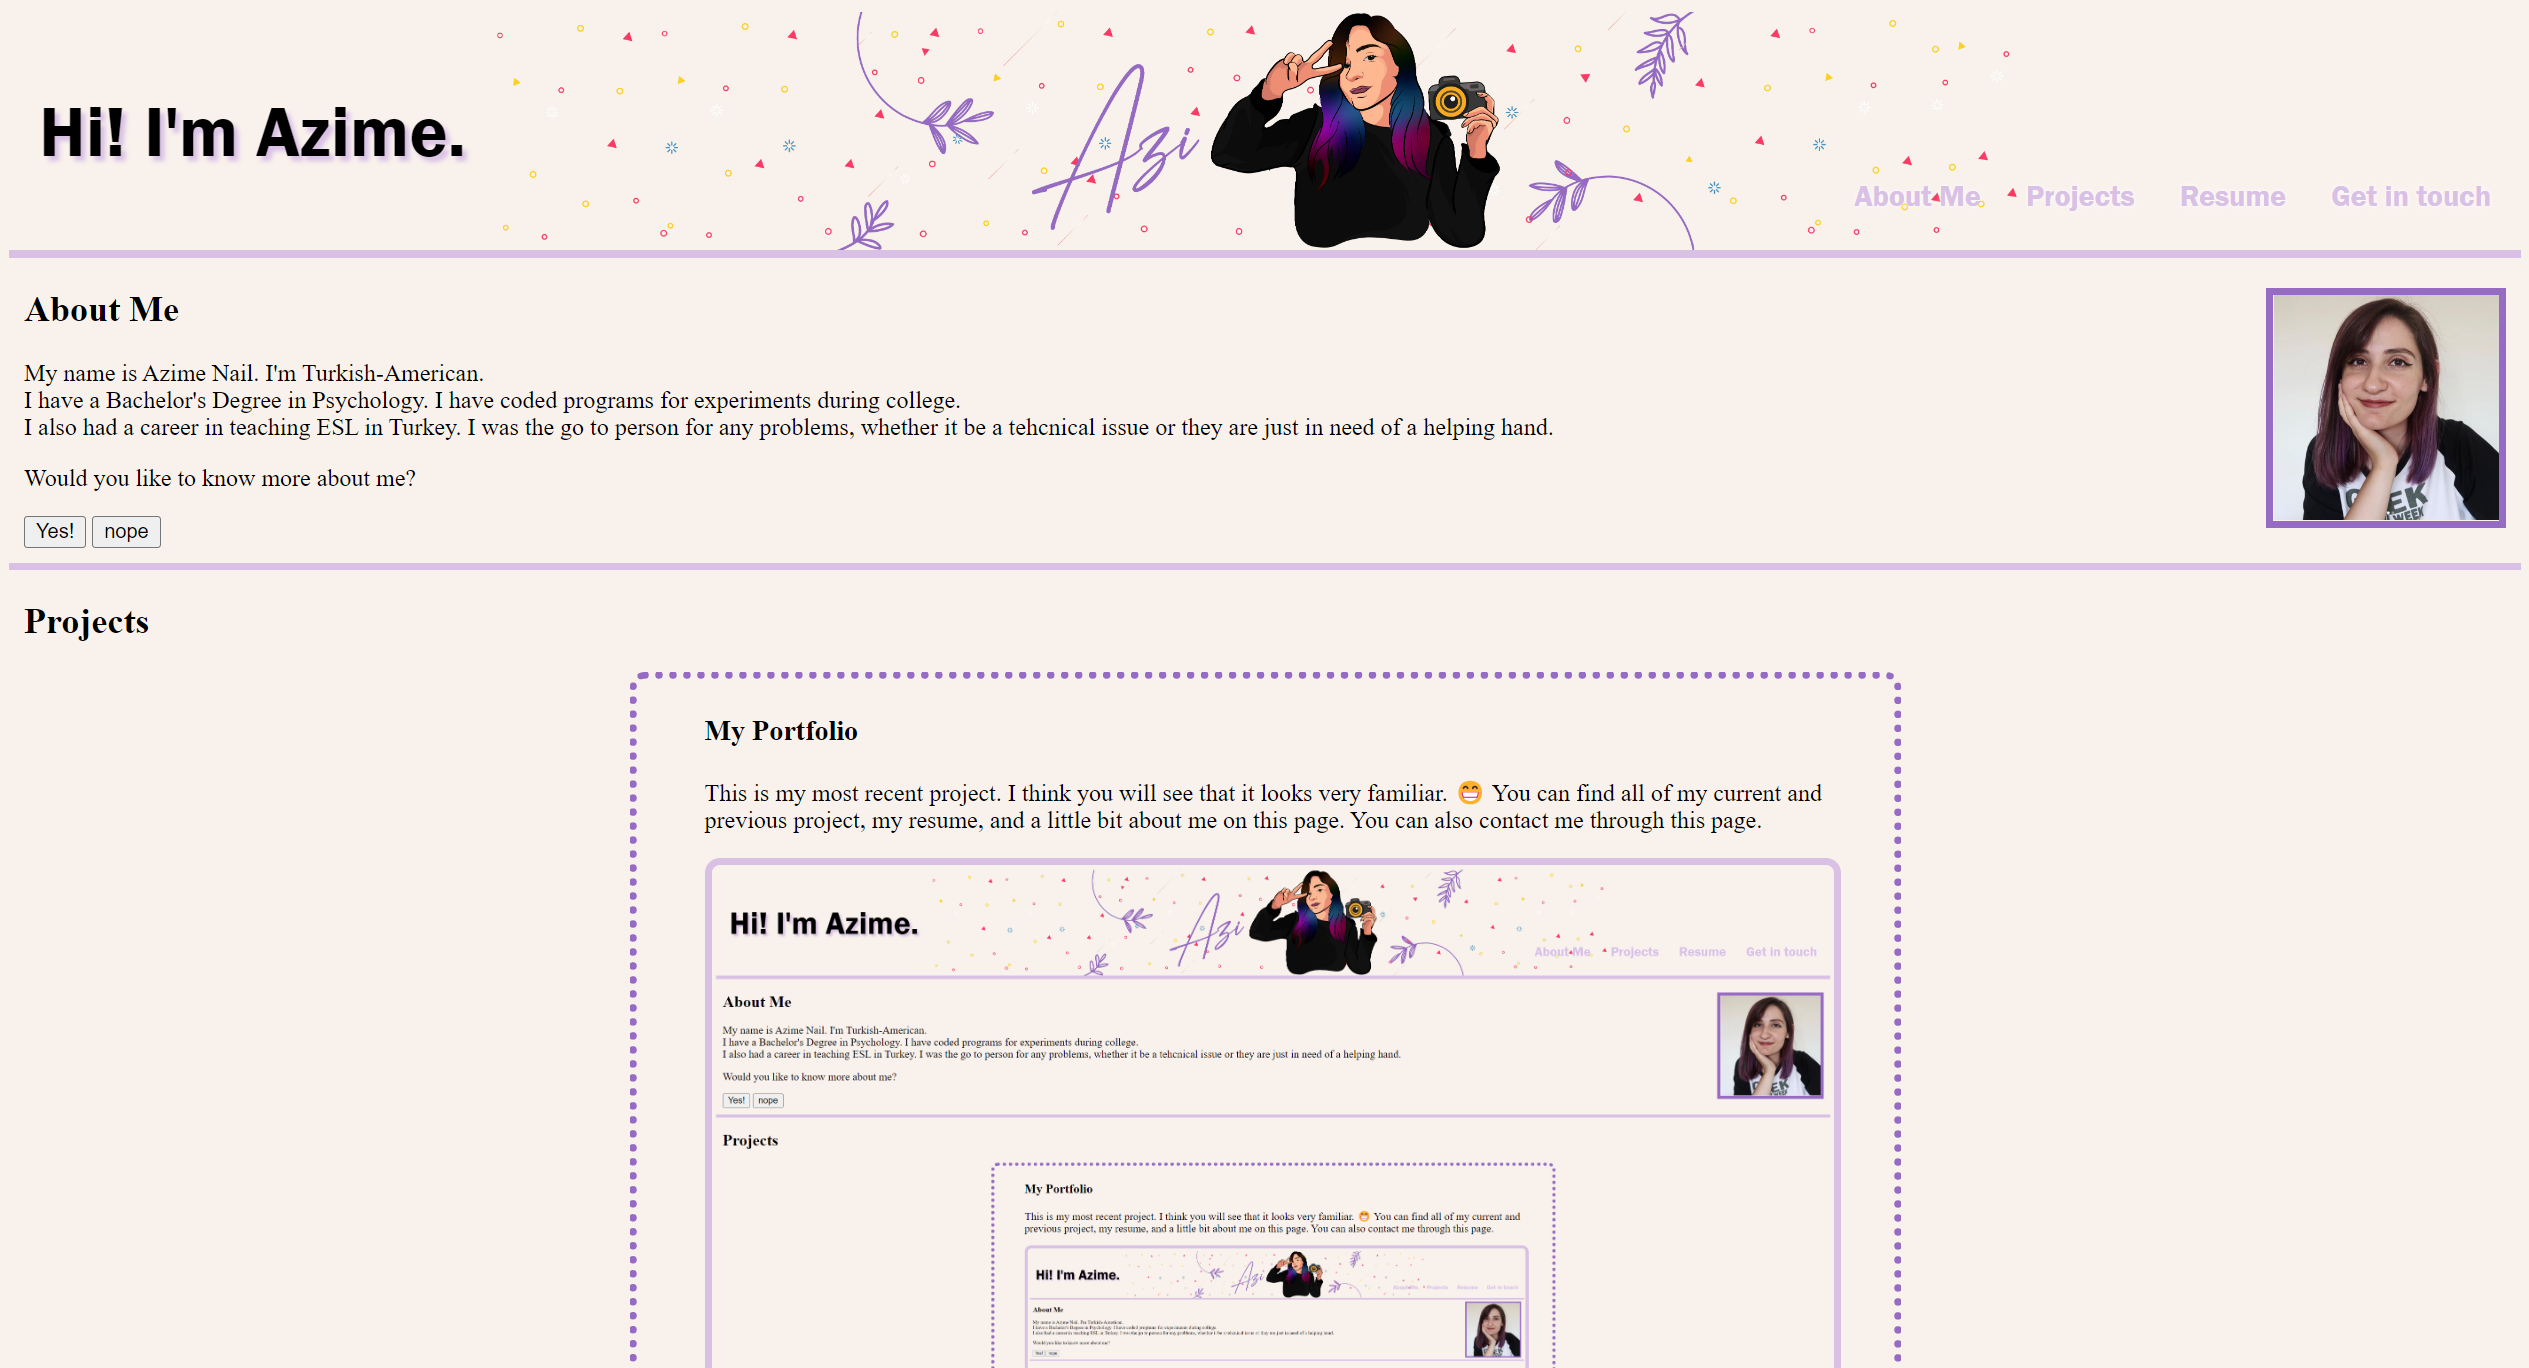
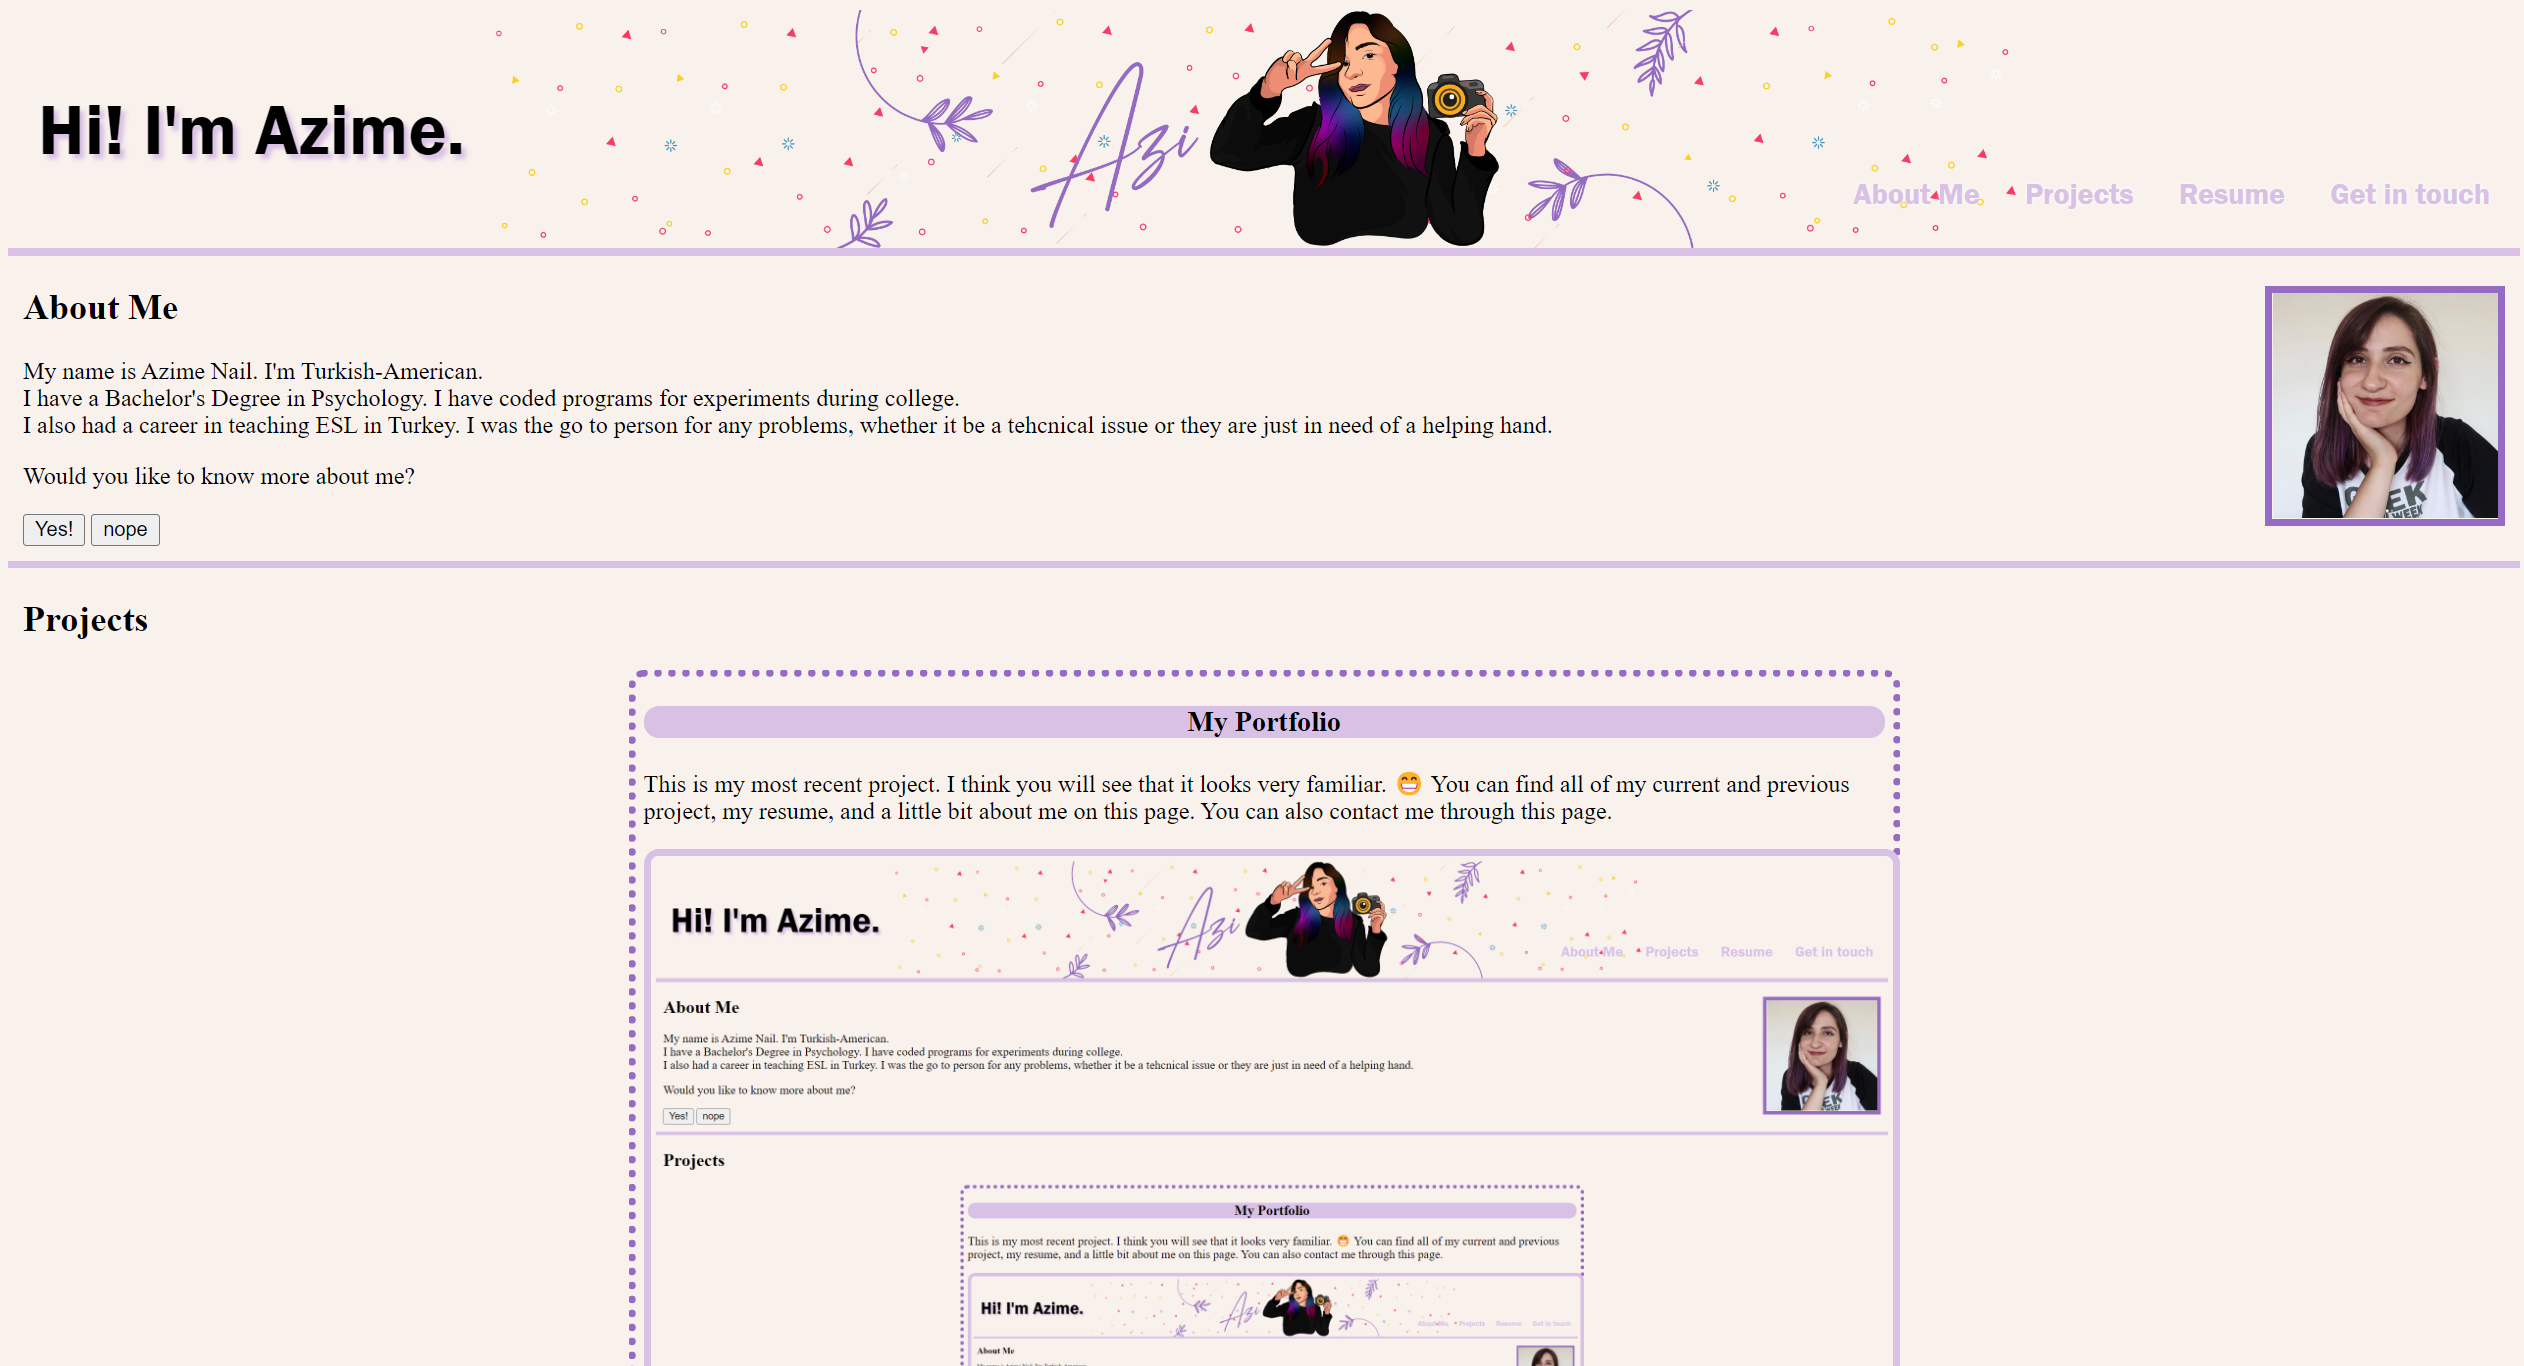
saving

diff --git a/index.html b/index.html
@@ -23,8 +23,10 @@
         </nav>
     </header>
 
+    <!-- added a line break between sections -->
     <div class="line-break"><br></div>
 
+    <!-- about me -->
     <section id="about-me" class="main-sections">
         <h2><img class="recent-photo" src="./assets/images/recent-photo.png" alt="photo of Azime"> About Me</h2>
         <p>My name is Azime Nail. I'm Turkish-American.<br> I have a Bachelor's Degree in Psychology. I have coded programs for experiments during college.<br>I also had a career in teaching ESL in Turkey. I was the go to person for any problems, whether it be a tehcnical issue or they are just in need of a helping hand.</p>
@@ -36,6 +38,7 @@
 
     <div class="line-break"><br></div>
 
+    <!-- projects -->
     <section id="projects" class="main-sections">
         <h2>Projects</h2>
 
@@ -45,8 +48,8 @@
               <section>
                 <h3>My Portfolio</h3>
                 <p>This is my most recent project. I think you will see that it looks very familiar. &#x1F601 You can find all of my current and previous project, my resume, and a little bit about me on this page. You can also contact me through this page.</p>
-                <!-- this link will basically refresh the page because this is my most recent project. please clik on the other projects too -->
-                <a href="https://azimezn.github.io/azime-nail-portfolio/"><img class="project-screenshots" src="./assets/images/azime-nail-portfolio-screenshot.png" alt="screenshot of Azime Nail's portfolio"></a>
+                <!-- when clicked, it will take you to the website/project -->
+                <a href="https://azimezn.github.io/azime-nail-portfolio/" target="_blank"><img class="project-screenshots" src="./assets/images/azime-nail-portfolio-screenshot.png" alt="screenshot of Azime Nail's portfolio"></a>
               </section>
             </div>
 
@@ -57,7 +60,7 @@
                         <h3>Nailler.com</h3>
                         <p>A webpage for a company called Nailler, which has classic cars as rentals. This page is a catalog for their cars and work. You can also get in contact with them through the website or click on their social media links.</p>
                         <!-- when clicked, it will take you to the website/project -->
-                        <a href="https://www.nailler.com/"><img class="project-screenshots" src="./assets/images/nailler-screenshot.png" alt="screenshot of nailler.com"></a>
+                        <a href="https://www.nailler.com/" target="_blank"><img class="project-screenshots" src="./assets/images/nailler-screenshot.png" alt="screenshot of nailler.com"></a>
                     </section>
                 </div>
       
@@ -65,86 +68,108 @@
                     <section>
                         <h3>ZayaDesign.com</h3>
                         <p>A webpage for a company called Zaya Design. They make decorations and gifts for special occasions. All of their items are handmade. &#x1F4AB</p>
-                        <a href="https://www.zayadesign.com/en"><img class="project-screenshots" src="./assets/images/zayadesign-screenshot.png" alt="screenshot of zayadesign.com"></a>
+                        <!-- when clicked, it will take you to the website/project -->
+                        <a href="https://www.zayadesign.com/en" target="_blank"><img class="project-screenshots" src="./assets/images/zayadesign-screenshot.png" alt="screenshot of zayadesign.com"></a>
                     </section>
                 </div>
+
+                <div class="old-project">
+                    <section>
+                        <h3>Pre-Work Study Guide </h3>
+                        <p>My very first attempt in coding for the bootcamp I attended by Rutgers University.</p>
+                        <!-- when clicked, it will take you to the website/project -->
+                        <a href="https://azimezn.github.io/prework-study-guide/" target="_blank"><img class="project-screenshots" src="./assets/images/prework-study-guide-screenshot.png" alt="screenshot of my prework study guide"></a>
+                    </section>
+                </div>
+
             </section>
 
         </section>
         
     </section>
 
-    <!-- added a line break between sections -->
     <div class="line-break"><br></div>
 
-    <section id="resume" class="main-sections">
+    <!-- resume -->
+    <section>
         <h2>Resume</h2>
-        <p><a href="https://www.linkedin.com/in/azime-nail/">LinkedIn</a></p>
+        <p><a href="https://www.linkedin.com/in/azime-nail/" target="_blank"><img class="icon" src="./assets/images/linkedin-icon.png" alt="linkedin icon"></a></p>
+        <section id="resume" class="main-sections grid">
 
-        <!-- <h3>Experience</h3>
-        <div class="grid resume-section">
+            <div>
 
-            <section class="resume-box">
-                <p><b>Gi Group</b></p>
-                <p><i>Native English Teacher</i></p>
-                <p>April 2019 - July 2019 (4 months)</p>
-                <p>Bursa, Turkey</p>
-            </section>
+                <section class="grid resume-section education">
+                    <h3>Education</h3>
+                    <section class="resume-box">
+                        <p><b>Hacettepe University</b></p>
+                        <p><i>Bachelor's Degree. Psychology</i></p>
+                        <p>2012-2016</p>
+                        <img src="./assets/images/university-graduation.JPG" alt="university graduation">
+                    </section>
+        
+                    <section class="resume-box">
+                        <p><b>Pennsauken High School</b></p>
+                        <p><i>High School Diploma</i></p>
+                        <p>2009-2012</p>
+                        <img src="./assets/images/high-school-graduation.JPG" alt="high school graduation">
+                    </section>
+    
+                </section>
+            </div>
+    
+            <div>
 
-            <section class="resume-box">
-                <p><b>Wall Street English</b></p>
-                <p><i>Native Teacher</i></p>
-                <p>June 2017 - June 2018 (1 year 1 month)</p>
-                <p>Bursa, Turkey</p>
-            </section>
-
-            <section class="resume-box">
-                <p><b>Social Psychology Lab.</b></p>
-                <p><i>Research Assistant</i></p>
-                <p>May 2014 - June 2016 (2 years 2 months)</p>
-                <p>Ankara, Turkey</p>
-            </section>
-
-            <section class="resume-box">
-                <p><b>Hacettepe University Psychometrics Research and Application Center (HUPAM)</b></p>
-                <p><i>Research Intern</i></p>
-                <p>March 2015 - December 2015 (10 months)</p>
-                <p>Ankara, Turkey</p>
-            </section>
-
-            <section class="resume-box">
-                <p><b>Pennsauken Library</b></p>
-                <p><i>Library Assistant</i></p>
-                <p>April 2012 - June 2012 (3 months)</p>
-                <p>New Jersey, USA</p>
-            </section>
-        </div>
-
-        <h3>Education</h3>
-        <div class="grid resume-section">
-
-            <section class="resume-box">
-                <p><b>Hacettepe University</b></p>
-                <p><i>Bachelor's Degree. Psychology</i></p>
-                <p>2012-2016</p>
-            </section>
-
-            <section class="resume-box">
-                <p><b>Pennsauken High School</b></p>
-                <p><i>High School Diploma</i></p>
-                <p>2009-2012</p>
-            </section>
-
-        </div> -->
+                <section class="grid resume-section experience">
+                    <h3>Experience</h3>   
+                    <section class="resume-box">
+                        <p><b>Gi Group</b></p>
+                        <p><i>Native English Teacher</i></p>
+                        <p>April 2019 - July 2019 (4 months)</p>
+                        <p>Bursa, Turkey</p>
+                    </section>
+    
+                    <section class="resume-box">
+                        <p><b>Wall Street English</b></p>
+                        <p><i>Native Teacher</i></p>
+                        <p>June 2017 - June 2018 (1 year 1 month)</p>
+                        <p>Bursa, Turkey</p>
+                    </section>
+    
+                    <section class="resume-box">
+                        <p><b>Social Psychology Lab.</b></p>
+                        <p><i>Research Assistant</i></p>
+                        <p>May 2014 - June 2016 (2 years 2 months)</p>
+                        <p>Ankara, Turkey</p>
+                    </section>
+    
+                    <section class="resume-box">
+                        <p><b>Hacettepe University Psychometrics Research and Application Center (HUPAM)</b></p>
+                        <p><i>Research Intern</i></p>
+                        <p>March 2015 - December 2015 (10 months)</p>
+                        <p>Ankara, Turkey</p>
+                    </section>
+    
+                    <section class="resume-box">
+                        <p><b>Pennsauken Library</b></p>
+                        <p><i>Library Assistant</i></p>
+                        <p>April 2012 - June 2012 (3 months)</p>
+                        <p>New Jersey, USA</p>
+                    </section>
+    
+                </section>
+            </div>
+        </section>
+        
 
     </section>
 
     <div class="line-break"><br></div>
 
+    <!-- contact me -->
     <section id="contact" class="main-sections">
         <h2>Get in touch!</h2>
         <!-- form to enter ontact information -->
-        <form>
+        <form class="form-content">
             <p>
                 <label for="username">Name:</label>
                 <input id="username" type="text" placeholder="First Last">   
@@ -162,11 +187,16 @@
             </p>
         </form>
         <!-- links to reach me -->
-        <aside class="info">
+        <section class="info">
             <p>E-mail: <a href="mailto:azimeznail@gmail.com">azimeznail@gmail.com</a></p>
             <p>GitHub: <a href="https://github.com/azimezn">https://github.com/azimezn</a></p>
-            <p>Instagram: @<a href="https://www.instagram.com/azimezn/">azimezn</a></p>
-        </aside>
+            <!-- <p>Instagram: @<a href="https://www.instagram.com/azimezn/">azimezn</a></p> -->
+            <div class="social-media">
+                <p><a href="https://www.instagram.com/azimezn/" target="_blank"><img class="icon" src="./assets/images/instagram-icon.png" alt="instagram icon"></a></p>
+                <p><a href="https://www.youtube.com/@azimezn" target="_blank"><img class="icon" src="./assets/images/youtube-icon.png" alt="youtube icon"></a></p>
+                <p><a href="https://twitter.com/azimezn" target="_blank"><img class="icon" src="./assets/images/twitter-icon.png" alt="twitter icon"></a></p>
+            </div>
+        </section>
     </section>
 
 </body>

diff --git a/assets/css/style.css b/assets/css/style.css
@@ -19,12 +19,17 @@ header {
     background-position: center;
 }
 
-header h1 {
+h1 {
     display: inline-block;
     font-size: 48px;
     text-shadow: 3px 3px 3px var(--purple-light);
 }
 
+h2 {
+    margin-left:30px;
+}
+
+/* nav in the heading on the right */
 header nav {
     padding-top: 15px;
     margin-right: 20px;
@@ -33,6 +38,7 @@ header nav {
     font-size: 20px;
 }
 
+/* properties of the nav elements themselves */
 header nav ul {
     list-style-type: none;
     display:flex;
@@ -70,6 +76,7 @@ header nav ul {
     text-decoration: underline;
 }
 
+/* properties of the line between every section */
 .line-break {
     background-color: var(--purple-light);
     height: 5px;
@@ -79,6 +86,7 @@ header nav ul {
     margin: 10px;
 }
 
+/* my recent photo */
 .recent-photo {
     float: right;
     width: 20%;
@@ -105,7 +113,6 @@ header nav ul {
     flex-wrap: wrap;
     flex-direction: row;
     align-content: stretch;
-    justify-content: space-around;
 }
 
 .project-screenshots {
@@ -119,10 +126,20 @@ header nav ul {
     border-color: lightblue;
 }
 
+.new-project h3,
+.old-project h3 {
+    background-color: var(--purple-light);
+    /* width: 50%; */
+    display:flex;
+    justify-content: center;
+    border-radius: 10px;
+    padding: 0 3 px;
+}
+
 /* some properties are the same for all projects, but the new project needs to stand out */
 .new-project,
 .old-project {
-    padding: 5px;
+    padding: 0 25px 15px 15px;
     border: 5px dotted var(--purple-dark);
     border-radius: 10px;
     margin: 10px;
@@ -136,20 +153,53 @@ header nav ul {
 }
 
 .old-project {
-    width: 30%;
+    width: 28%;
+}
+
+#resume h3 {
+    margin: 10px;
+    padding: 3px;
+    border: 3px solid black;
+    width: 100px;
+    background-color: white;
 }
 
 .resume-section {
     background-color: var(--purple-light);
     border-radius: 10px;
     border: 5px solid var(--purple-light);
+    margin: 10px;
 }
 
 .resume-box {
-    width: 15%;
+    width: 90%;
     padding: 0px 10px;
     border: 3px dotted black;
     background-color: white;
+    margin: 10px;
+}
+
+.resume-box img {
+    width: 100%;
+    border: 1px solid black;
+}
+
+.education {
+    width: 300px;
+}
+
+.experience {
+    width: 500px;
+}
+
+/* .experience .resume-box {
+    width: 90%;
+} */
+
+.form-content {
+    width: 50%;
+    float: left;
+
 }
 
 .info {
@@ -161,6 +211,16 @@ header nav ul {
     width: 20%;
     height: 100%;
     word-wrap: break-word;
+}
+
+.icon {
+    width: 50px;
+    margin-left: 30px;
+}
+
+.social-media {
+    display: flex;
+    flex-direction: row;
 }
 
 /* responsive design */
